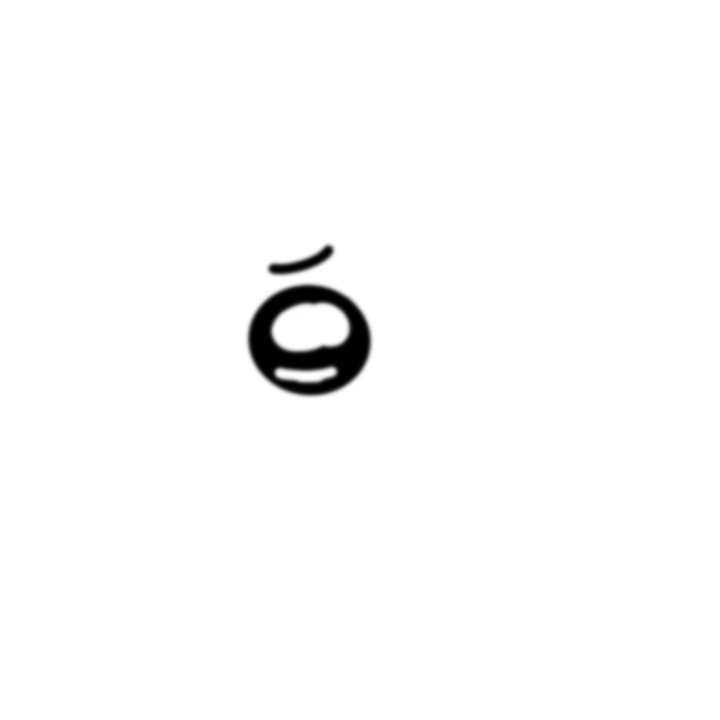
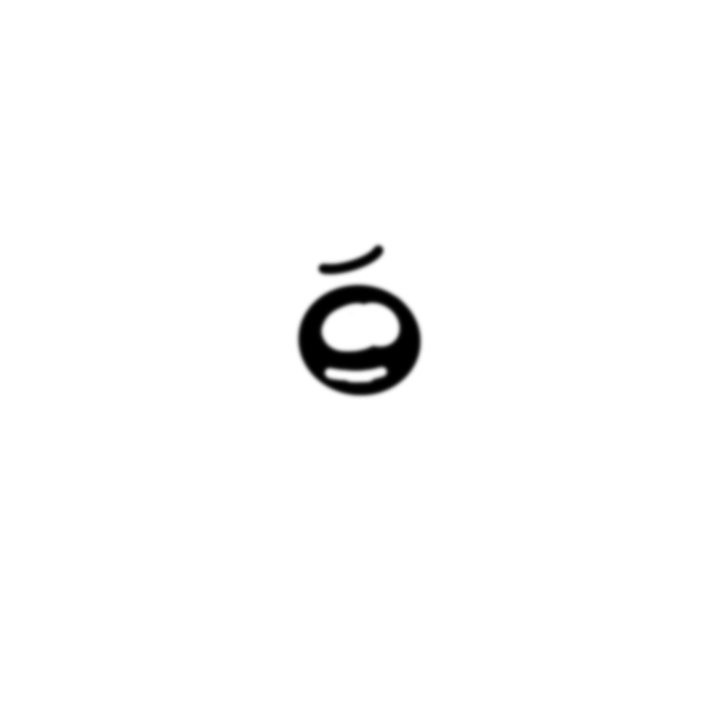
eye flip

Changed region(s): [[0.3361, 0.3361, 0.6111, 0.55]]

diff --git a/tiikawapose.py b/tiikawapose.py
@@ -18,8 +18,8 @@ cap = cv2.VideoCapture(0)
 
 # 黒画像を作成
 black_img0 = Image.new('RGBA', (int(cap.get(cv2.CAP_PROP_FRAME_WIDTH)), int(cap.get(cv2.CAP_PROP_FRAME_HEIGHT))), (0, 0, 0, 200))
-black_img0.save('black_image_with_alpha.png')
-black_img = cv2.imread('black_image_with_alpha.png', cv2.IMREAD_UNCHANGED)
+black_img0.save('./middle/black_image_with_alpha.png')
+black_img = cv2.imread('./middle/black_image_with_alpha.png', cv2.IMREAD_UNCHANGED)
 
 # 初期化：outputディレクトリの中身を空にする
 output_dir = './output'
@@ -137,7 +137,7 @@ random_subfolder_name = load_images_with_names_from_random_subfolder("./images")
 
 # 貼り付ける透過背景付き画像の読み込み
 face_image = cv2.imread('./images/' + str(random_subfolder_name) + '/character_face.png', cv2.IMREAD_UNCHANGED)
-left_eye_image = cv2.imread('./images/' + str(random_subfolder_name) + '/eye_image.png', cv2.IMREAD_UNCHANGED)
+left_eye_image = cv2.imread('./images/' + str(random_subfolder_name) + '/eye_image_rv.png', cv2.IMREAD_UNCHANGED)
 right_eye_image = cv2.imread('./images/' + str(random_subfolder_name) + '/eye_image.png', cv2.IMREAD_UNCHANGED)
 mouth_image = cv2.imread('./images/' + str(random_subfolder_name) + '/mouth_image.png', cv2.IMREAD_UNCHANGED)
 
@@ -305,7 +305,7 @@ def is_hand_near_face(landmarks, image_width, image_height, eye_distance, thresh
     return hand_near_face
 
 # 両手が顔の近くにあるかを判定する関数
-def is_hands_near_face(landmarks, image_width, image_height, eye_distance, threshould_ratio=5):
+def is_hands_near_face(landmarks, image_width, image_height, eye_distance, threshould_ratio=3):
 
     hands_near_face = False
 
@@ -521,8 +521,8 @@ with mp_pose.Pose(min_detection_confidence=0.5, min_tracking_confidence=0.5) as 
 
             # 3. 背景透過処理を行い保存
             filename = f"{output_dir}/captured_image_{i}.png"
-            cv2.imwrite("captured_image.jpg", skeleton_image)
-            im = Image.open("captured_image.jpg")
+            cv2.imwrite("./middle/captured_image.jpg", skeleton_image)
+            im = Image.open("./middle/captured_image.jpg")
             im.save(filename)
             trans_back(filename)
             print(f"Image saved: {filename}")
